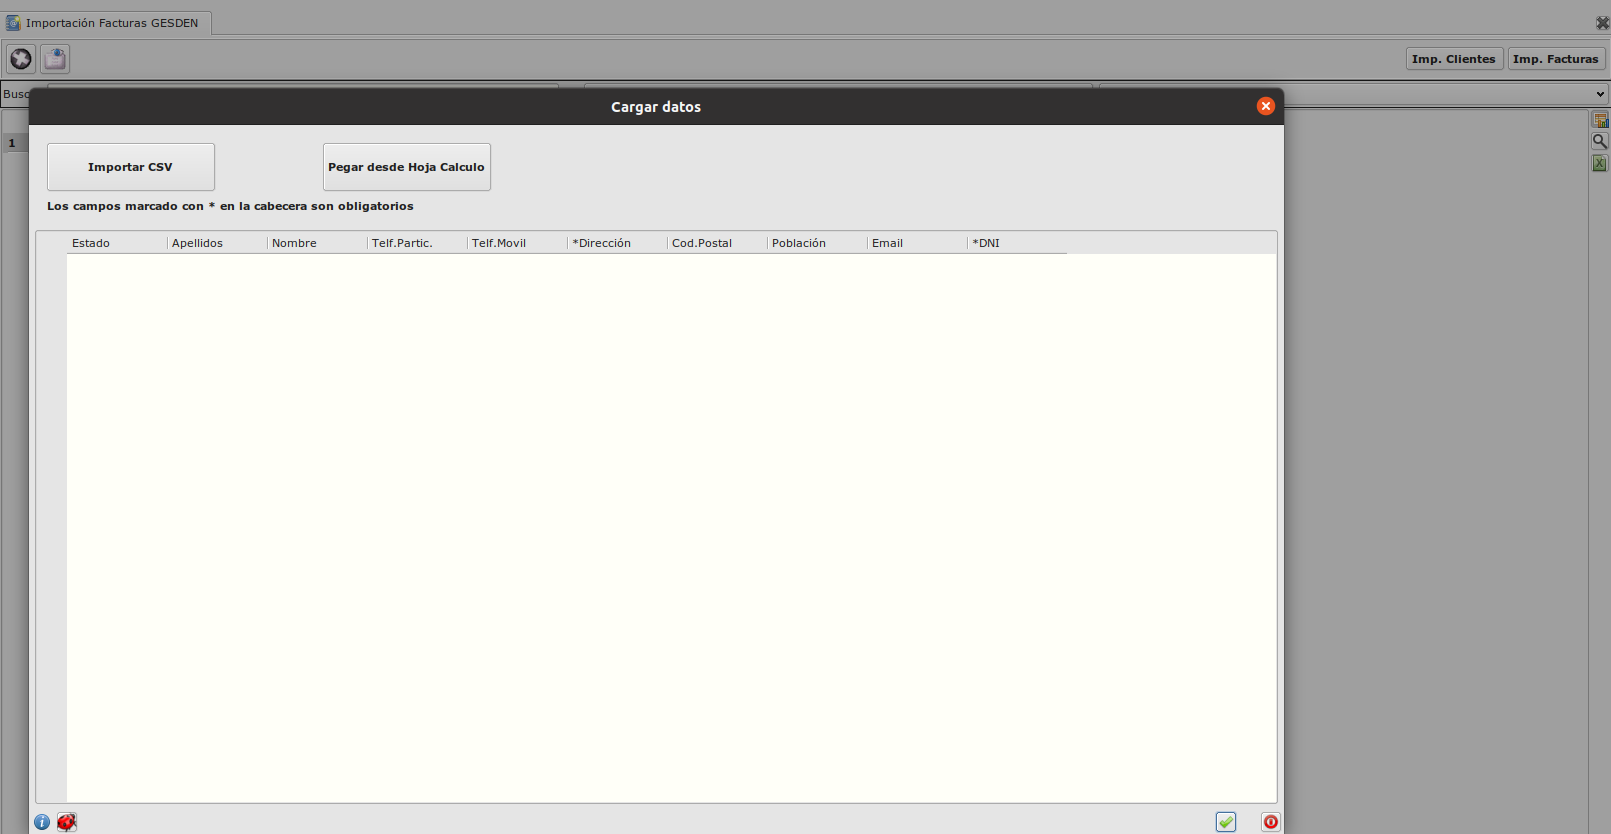
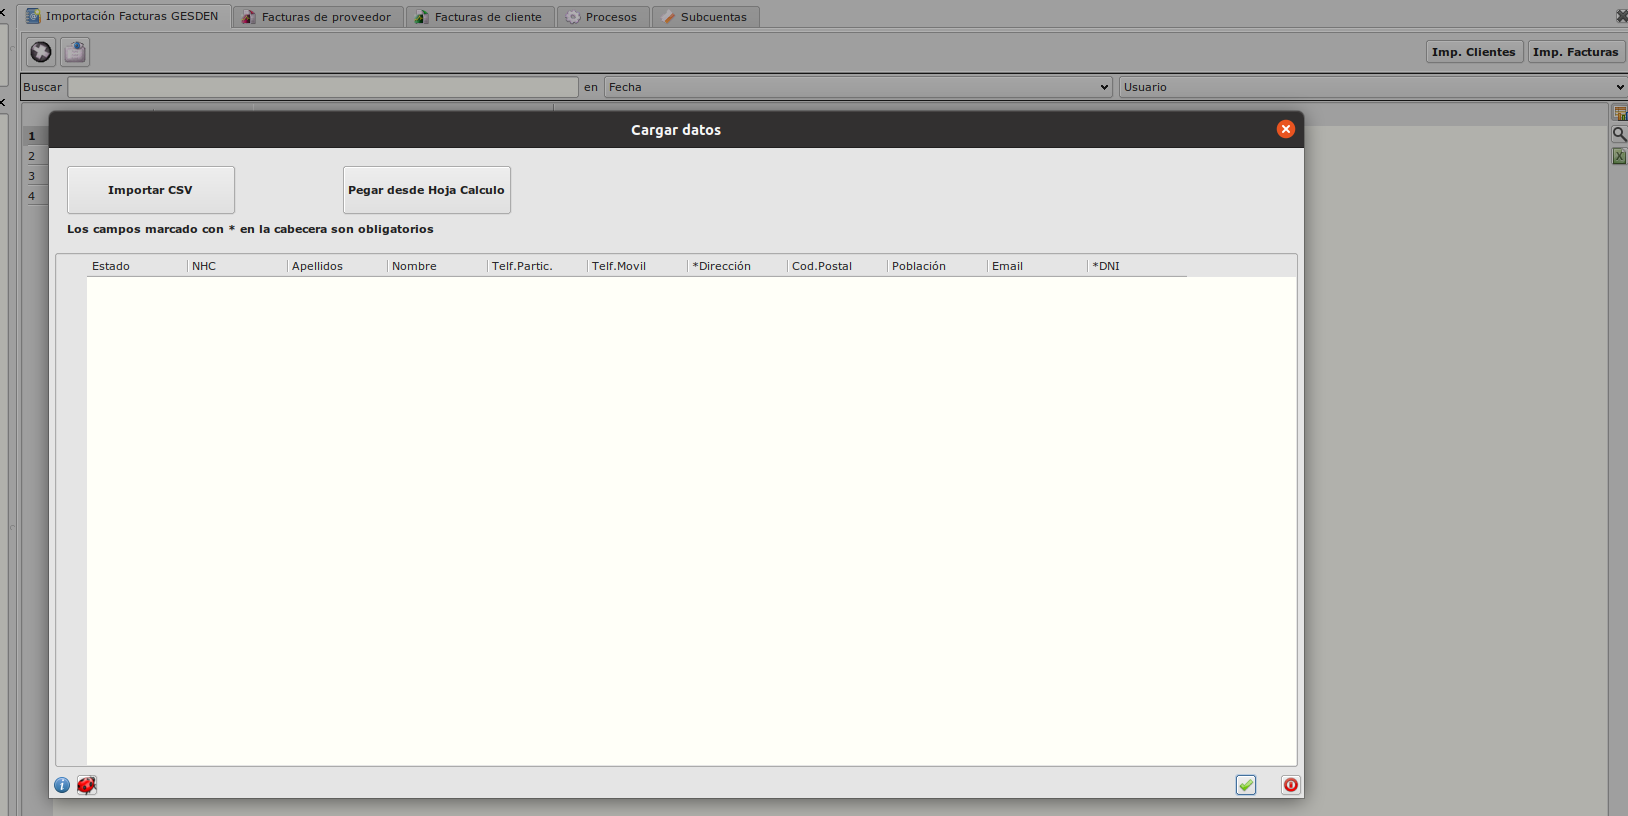
Modificaciones capturas en importación de GESDEN

Changed region(s): [[0.0, 0.0, 1.0, 1.0]]

diff --git a/jsenar/area_facturacion/facturacion/importaciongesden/importacionclientes.md b/jsenar/area_facturacion/facturacion/importaciongesden/importacionclientes.md
@@ -12,6 +12,8 @@
     - Pulsamos el botón **Importar CSV**. Que importará los datos desde un fichero csv. Se abrirá una ventana en la que debemos especificar algunos datos como el caracter separador del fichero, si debe ignorar o no la primera línea (debe ignorarse en el caso de que la primera línea corresponda a la cabececera con los nombres de las columnas) y número de líneas adicionales a ignorar (en el caso de que quisíeramos ignorar alguna otra línea). Al aceptar el formulario debemos seleccionar en nuestro disco el fichero csv a importar.
     - O también podemos hacerlo pulsando el botón **Pegar desde Hoja Cálculo**. En esta opción se abrirá una ventana con un cuadro de texto en blanco en el que debemos pegar el contenido de la hoja de cálculo que queramos importar
 
+![Datos importación clientes](./img/datos_importacion.png)
+
 * De ambas formas se leerán los datos a importar, se ejecutarán una serie de validaciones y se mostrará en el formulario de importación una lista con los datos a importar dónde nos indicará si son correctos o hay algún error.
 
 
